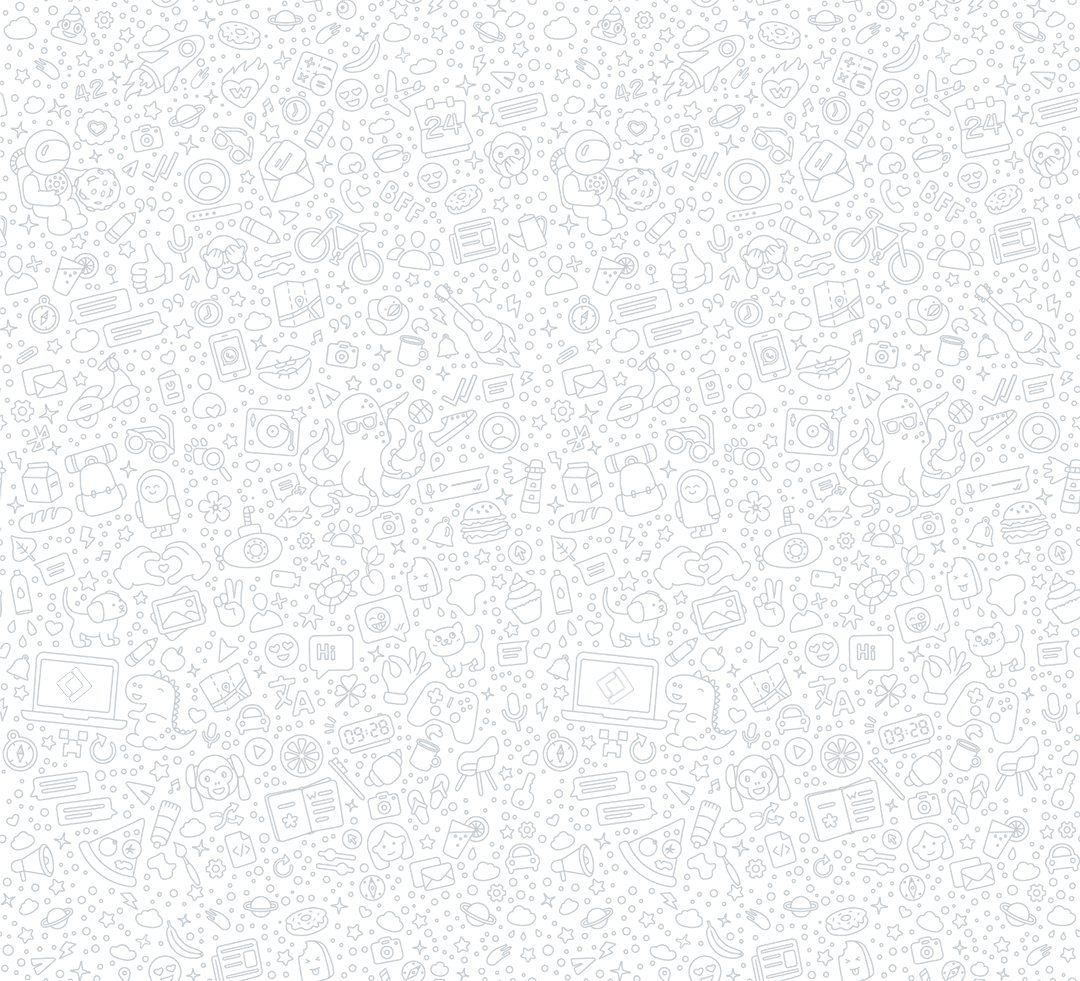
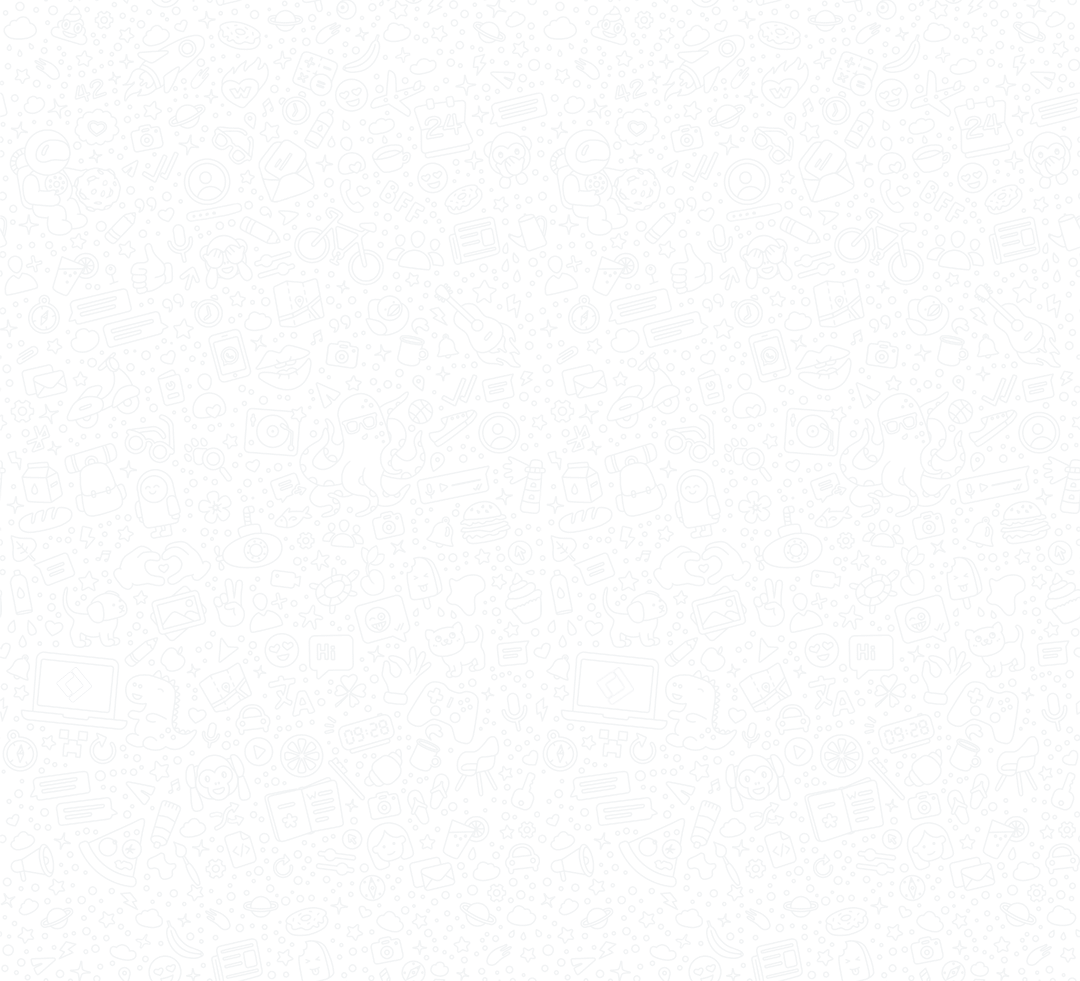
fixed background

Changed region(s): [[0.0, 0.0, 1.0, 1.0]]

diff --git a/resources/scss/app.scss b/resources/scss/app.scss
@@ -114,9 +114,9 @@ img {
 #app {
   min-height: 100vh;
   background-color: whitesmoke;
-  // background-image: url(../img/background.png);
-  // background-repeat: repeat;
-  // background-size: 1080px 981px;
+  background-image: url(../img/background.png);
+  background-repeat: repeat;
+  background-size: 1080px 981px;
 
   .wrapper {
     padding-top: 1.5rem;
